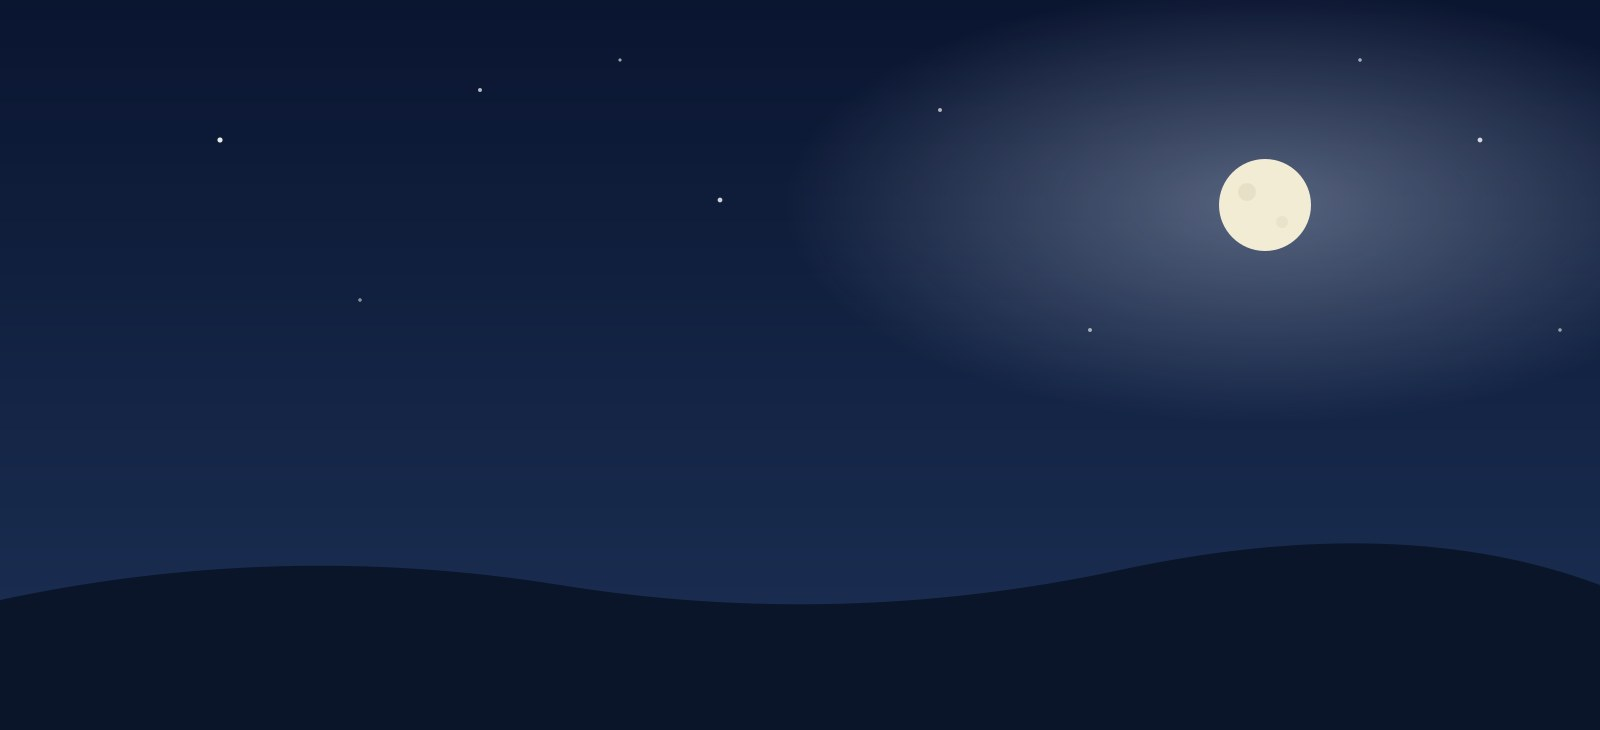
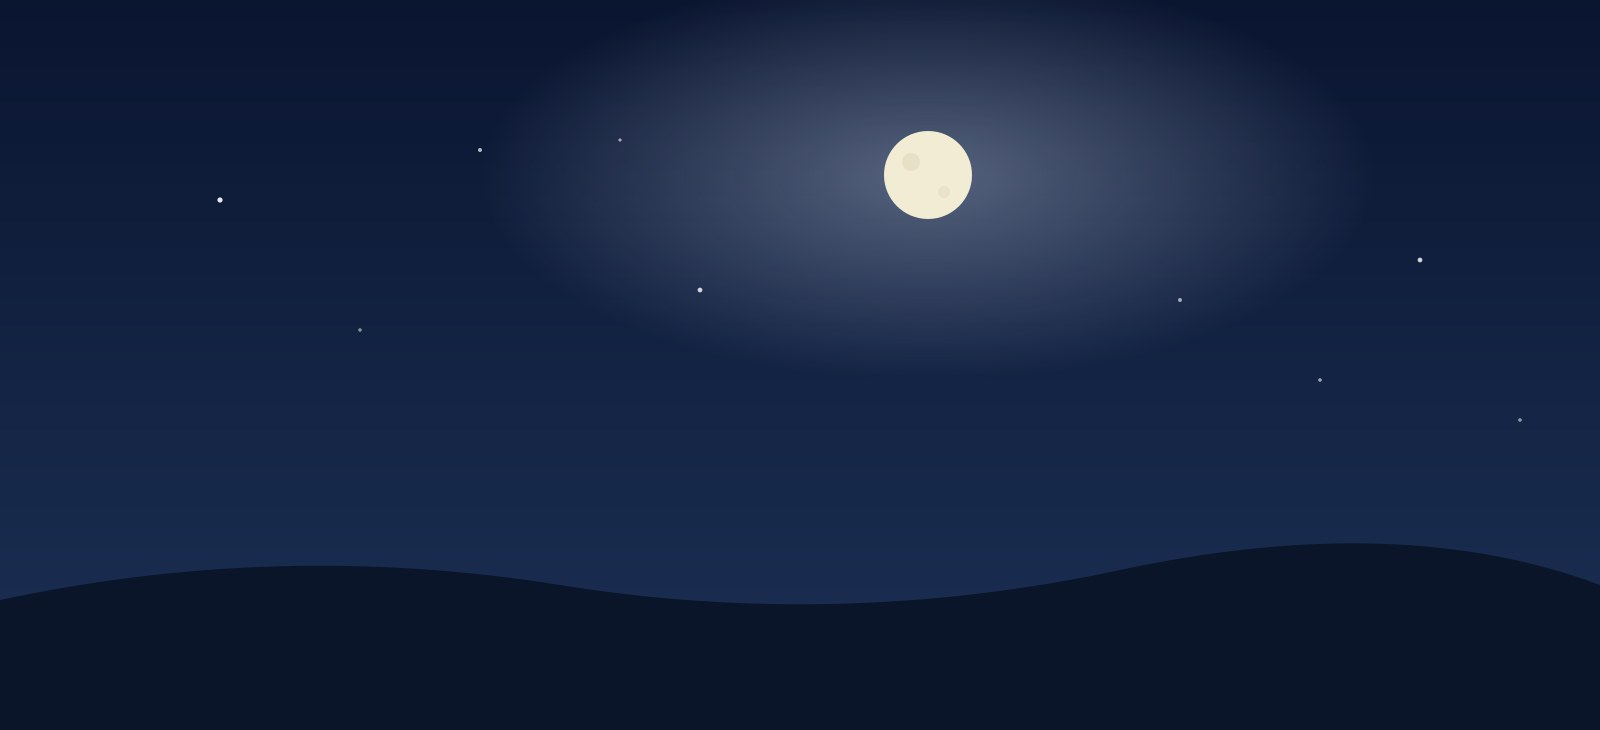
밤 배경 달 위치 조정 — 날짜 글씨와 겹치지 않게 + 원본 보관·재변환
- 변환되는 밤 배경의 달을 오른쪽 위(날짜 자리) → 가운데 위로 이동,
  별도 배지·날짜 영역을 피해서 배치
- 업로드 시 원본을 verseBg/original에 보관하고, 관리자 화면에
  '저장된 원본으로 다시 변환' 버튼 추가 — 규칙이 바뀌어도
  그림을 다시 올릴 필요 없음
- 내장 기본 밤 그림도 달 위치 이동

Claude-Session: https://claude.ai/code/session_01VDsoJVjkmq7yGfS2oWFvuq

Changed region(s): [[0.7188, 0.0603, 1.0, 0.4822], [0.375, 0.0301, 0.6562, 0.4219]]

diff --git a/src/verseBg.ts b/src/verseBg.ts
@@ -148,39 +148,42 @@ function gradeSlot(ctx: CanvasRenderingContext2D, img: HTMLImageElement, slot: B
     glow(ctx, W * 0.72, H * 0.58, W * 0.2, 'rgba(255,224,160,0.85)', 'rgba(255,201,126,0.3)');
     circle(ctx, W * 0.72, H * 0.56, 36, '#FFE9B8');
   } else {
-    // 밤 — 어둡게 + 달과 별
+    // 밤 — 어둡게 + 달과 별. 달은 카드 오른쪽 위의 날짜 글씨와 겹치지 않게
+    // 가운데 위쪽에 둔다.
     multiply(ctx, '#5F6E92');
     ctx.fillStyle = 'rgba(18,36,76,0.45)';
     ctx.fillRect(0, 0, W, H);
-    glow(ctx, W * 0.79, H * 0.2, W * 0.18, 'rgba(232,240,255,0.4)', 'rgba(232,240,255,0.15)');
-    circle(ctx, W * 0.79, H * 0.2, 42, '#F2ECD4');
-    circle(ctx, W * 0.79 - 15, H * 0.2 - 12, 8, 'rgba(222,215,188,0.6)');
-    circle(ctx, W * 0.79 + 14, H * 0.2 + 14, 5, 'rgba(222,215,188,0.5)');
+    const mx = W * 0.58;
+    const my = H * 0.2;
+    glow(ctx, mx, my, W * 0.16, 'rgba(232,240,255,0.4)', 'rgba(232,240,255,0.15)');
+    circle(ctx, mx, my, 40, '#F2ECD4');
+    circle(ctx, mx - 14, my - 11, 8, 'rgba(222,215,188,0.6)');
+    circle(ctx, mx + 13, my + 13, 5, 'rgba(222,215,188,0.5)');
     for (let i = 0; i < 14; i++) {
       const x = (i * 397) % W;
       const y = (i * 173) % (H * 0.45);
+      // 오른쪽 위 날짜 자리와 왼쪽 위 배지 자리는 별도 피한다
+      if (y < H * 0.18 && (x > W * 0.62 || x < W * 0.3)) continue;
       circle(ctx, x, y, 1.6 + (i % 3) * 0.6, `rgba(255,255,255,${0.5 + (i % 4) * 0.12})`);
     }
   }
 }
 
-/**
- * 관리자 화면에서 사용 — 밝은 낮 풍경 그림 한 장을 받아
- * 시간대별 5종으로 변환해 Firestore에 저장한다. (웹 전용)
- */
-export async function gradeAndSaveVerseBg(
-  file: File,
+function loadImage(src: string): Promise<HTMLImageElement> {
+  return new Promise((resolve, reject) => {
+    const el = new Image();
+    el.onload = () => resolve(el);
+    el.onerror = () => reject(new Error('이미지를 읽을 수 없습니다.'));
+    el.src = src;
+  });
+}
+
+async function gradeFromImage(
+  img: HTMLImageElement,
   onStatus?: (msg: string) => void,
 ): Promise<void> {
   const db = getDb();
   if (!db) throw new Error('데이터베이스 연결이 없습니다.');
-
-  const img = await new Promise<HTMLImageElement>((resolve, reject) => {
-    const el = new Image();
-    el.onload = () => resolve(el);
-    el.onerror = () => reject(new Error('이미지를 읽을 수 없습니다.'));
-    el.src = URL.createObjectURL(file);
-  });
 
   const canvas = document.createElement('canvas');
   canvas.width = W;
@@ -210,8 +213,53 @@ export async function gradeAndSaveVerseBg(
     });
     cache[slot] = dataUrl;
   }
-  URL.revokeObjectURL(img.src);
   onStatus?.('완료 — 앱에 바로 반영됩니다.');
+}
+
+/**
+ * 관리자 화면에서 사용 — 밝은 낮 풍경 그림 한 장을 받아
+ * 시간대별 5종으로 변환해 Firestore에 저장한다. (웹 전용)
+ * 원본도 함께 저장해, 변환 규칙이 바뀌면 그림을 다시 올리지 않고
+ * '다시 변환'만 누르면 되게 한다.
+ */
+export async function gradeAndSaveVerseBg(
+  file: File,
+  onStatus?: (msg: string) => void,
+): Promise<void> {
+  const db = getDb();
+  if (!db) throw new Error('데이터베이스 연결이 없습니다.');
+
+  const objUrl = URL.createObjectURL(file);
+  const img = await loadImage(objUrl);
+
+  // 원본 보관 (카드 크기로 잘라 고화질 저장)
+  const canvas = document.createElement('canvas');
+  canvas.width = W;
+  canvas.height = H;
+  const ctx = canvas.getContext('2d');
+  if (ctx) {
+    drawCover(ctx, img);
+    let dataUrl = canvas.toDataURL('image/jpeg', 0.85);
+    if (dataUrl.length > 900_000) dataUrl = canvas.toDataURL('image/jpeg', 0.7);
+    await setDoc(doc(db, 'verseBg', 'original'), {
+      image: dataUrl,
+      updatedAt: new Date().toISOString(),
+    });
+  }
+
+  await gradeFromImage(img, onStatus);
+  URL.revokeObjectURL(objUrl);
+}
+
+/** 저장된 원본으로 다시 변환 — 변환 규칙이 바뀐 뒤 원클릭 갱신용 */
+export async function regradeVerseBg(onStatus?: (msg: string) => void): Promise<void> {
+  const db = getDb();
+  if (!db) throw new Error('데이터베이스 연결이 없습니다.');
+  const snap = await getDoc(doc(db, 'verseBg', 'original'));
+  const src = snap.exists() ? String(snap.get('image') ?? '') : '';
+  if (!src) throw new Error('저장된 원본이 없습니다. 배경 그림을 먼저 선택해 주세요.');
+  const img = await loadImage(src);
+  await gradeFromImage(img, onStatus);
 }
 
 /** 관리자 업로드를 지우고 내장 기본 그림으로 되돌린다 */

diff --git a/app/admin.tsx b/app/admin.tsx
@@ -32,7 +32,7 @@ import {
   saveBulletin,
 } from '../src/data/bulletin';
 import { colors, font, shadows } from '../src/theme';
-import { gradeAndSaveVerseBg, resetVerseBg } from '../src/verseBg';
+import { gradeAndSaveVerseBg, regradeVerseBg, resetVerseBg } from '../src/verseBg';
 
 type AdminTab = 'verse' | 'bulletin' | 'news' | 'event' | 'members' | 'offering';
 
@@ -396,6 +396,17 @@ export default function AdminScreen() {
               disabled={busy}
             >
               <Text style={styles.primaryBtnText}>배경 그림 선택 (자동 변환)</Text>
+            </Pressable>
+            <Pressable
+              style={[styles.secondaryBtn, busy && { opacity: 0.6 }]}
+              onPress={() =>
+                submit(async () => {
+                  await regradeVerseBg(setBgStatus);
+                }, '저장된 원본으로 다시 변환했습니다.')
+              }
+              disabled={busy}
+            >
+              <Text style={styles.secondaryBtnText}>저장된 원본으로 다시 변환</Text>
             </Pressable>
             {bgStatus ? <Text style={styles.bgStatus}>{bgStatus}</Text> : null}
             <Pressable
